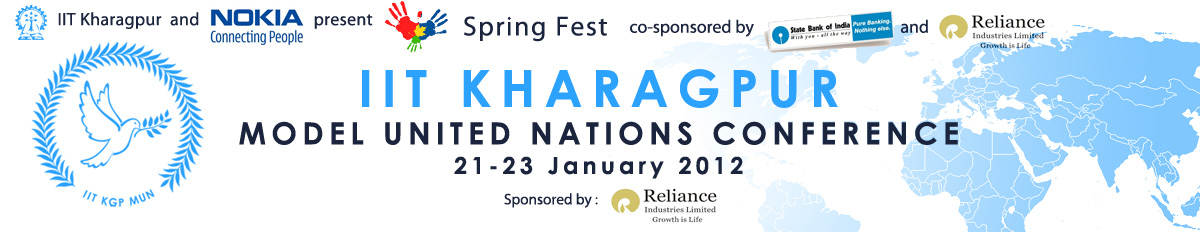
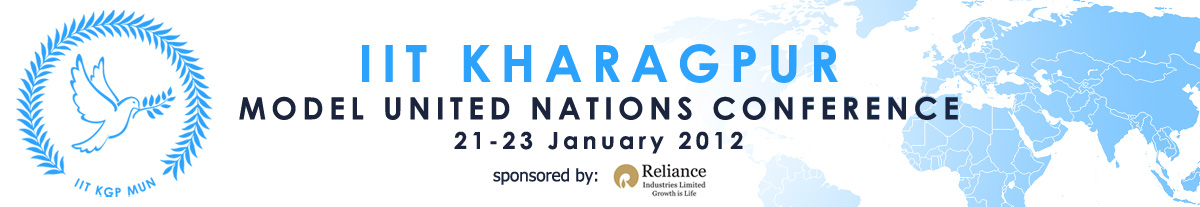
sponsors, co-sposors added in the small slideshow. header changed.

diff --git a/public/stylesheets/style.css b/public/stylesheets/style.css
@@ -198,7 +198,7 @@ hr { display: none; }
 	margin: 0 auto;
         margin-top : 40px;
 	padding-left: 20px;
-        background: url(/images/mun-hdr.jpg) no-repeat ;
+        background: url(/images/mun-bg.jpg) no-repeat ;
 }
 
 #logo h1, #logo p {
